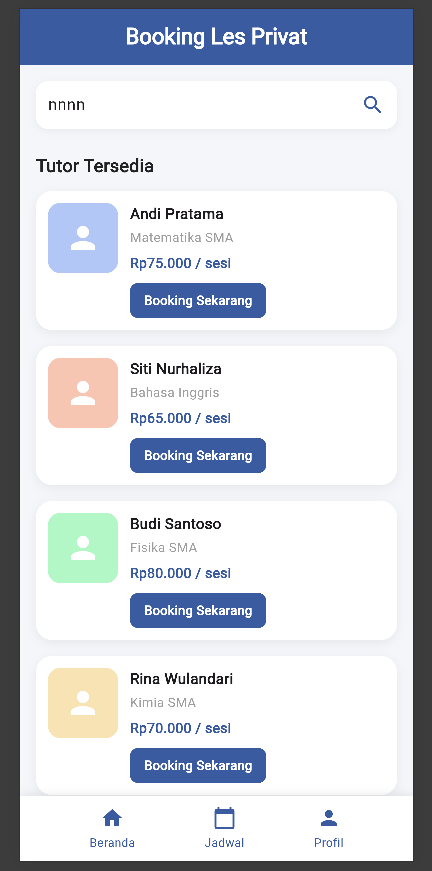
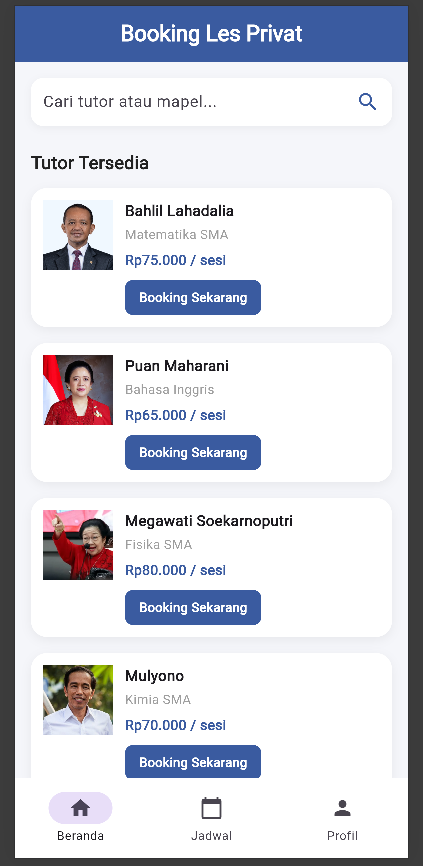
Update README posttest 2

diff --git a/README.md b/README.md
@@ -32,6 +32,18 @@ MaterialApp, Scaffold, SafeArea, SingleChildScrollView, Padding, Column, Row, Co
 
 Image.asset untuk menampilkan foto tutor dari folder assets, Stack dan Positioned untuk menumpuk panel total di atas daftar jadwal, BoxShadow untuk memberi bayangan pada panel total, TextField dengan keyboardType angka untuk input jumlah sesi, NavigationBar untuk menu navigasi bawah, serta Navigator.push dan Navigator.pop untuk berpindah antar halaman.
 
+## Struktur Project
+
+```
+lib/
+├── main.dart              # halaman Beranda
+├── jadwalPage.dart        # halaman Jadwal
+└── widgets/
+    └── kartuJadwal.dart   # widget kartu sesi pada halaman Jadwal
+assets/
+└── ...                    # foto masing-masing tutor
+```
+
 ## Rencana Pengembangan
 
 Selain pemesanan tutor, aplikasi ini direncanakan memiliki fitur presensi sesi les. Alurnya dimulai dari pemesanan tutor, penjadwalan sesi, pencatatan kehadiran, hingga rekap riwayat belajar siswa.
